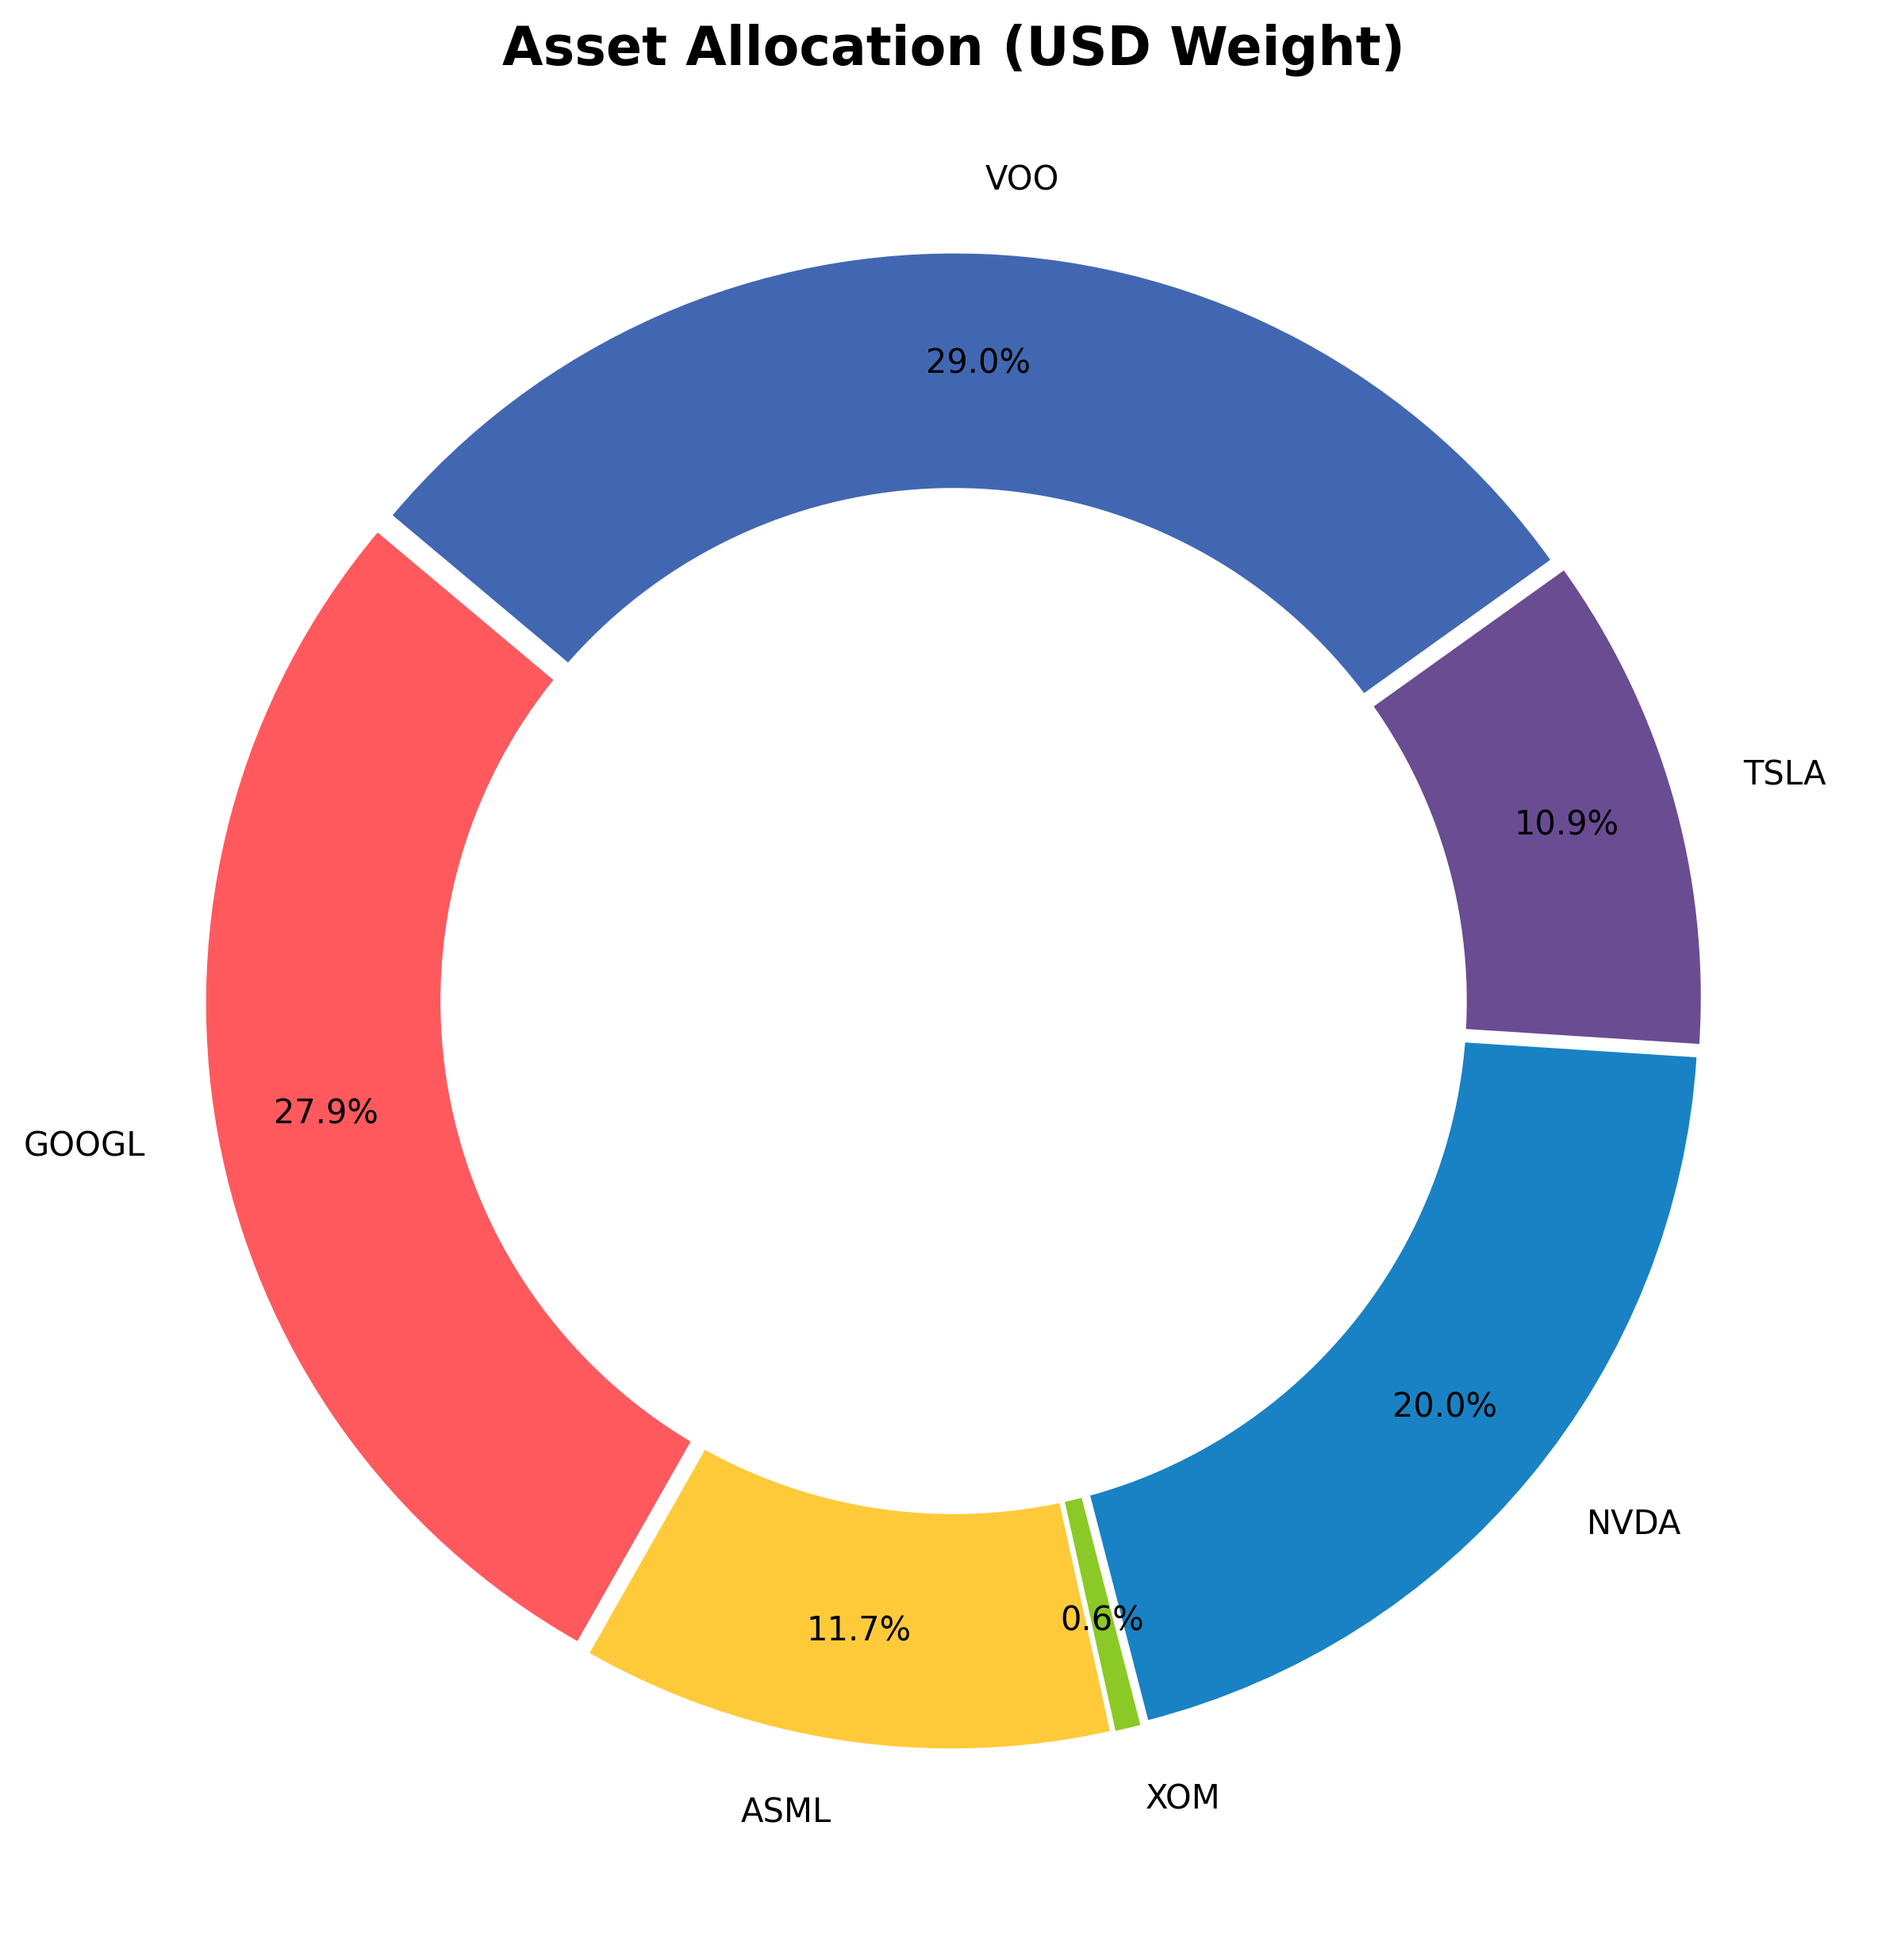
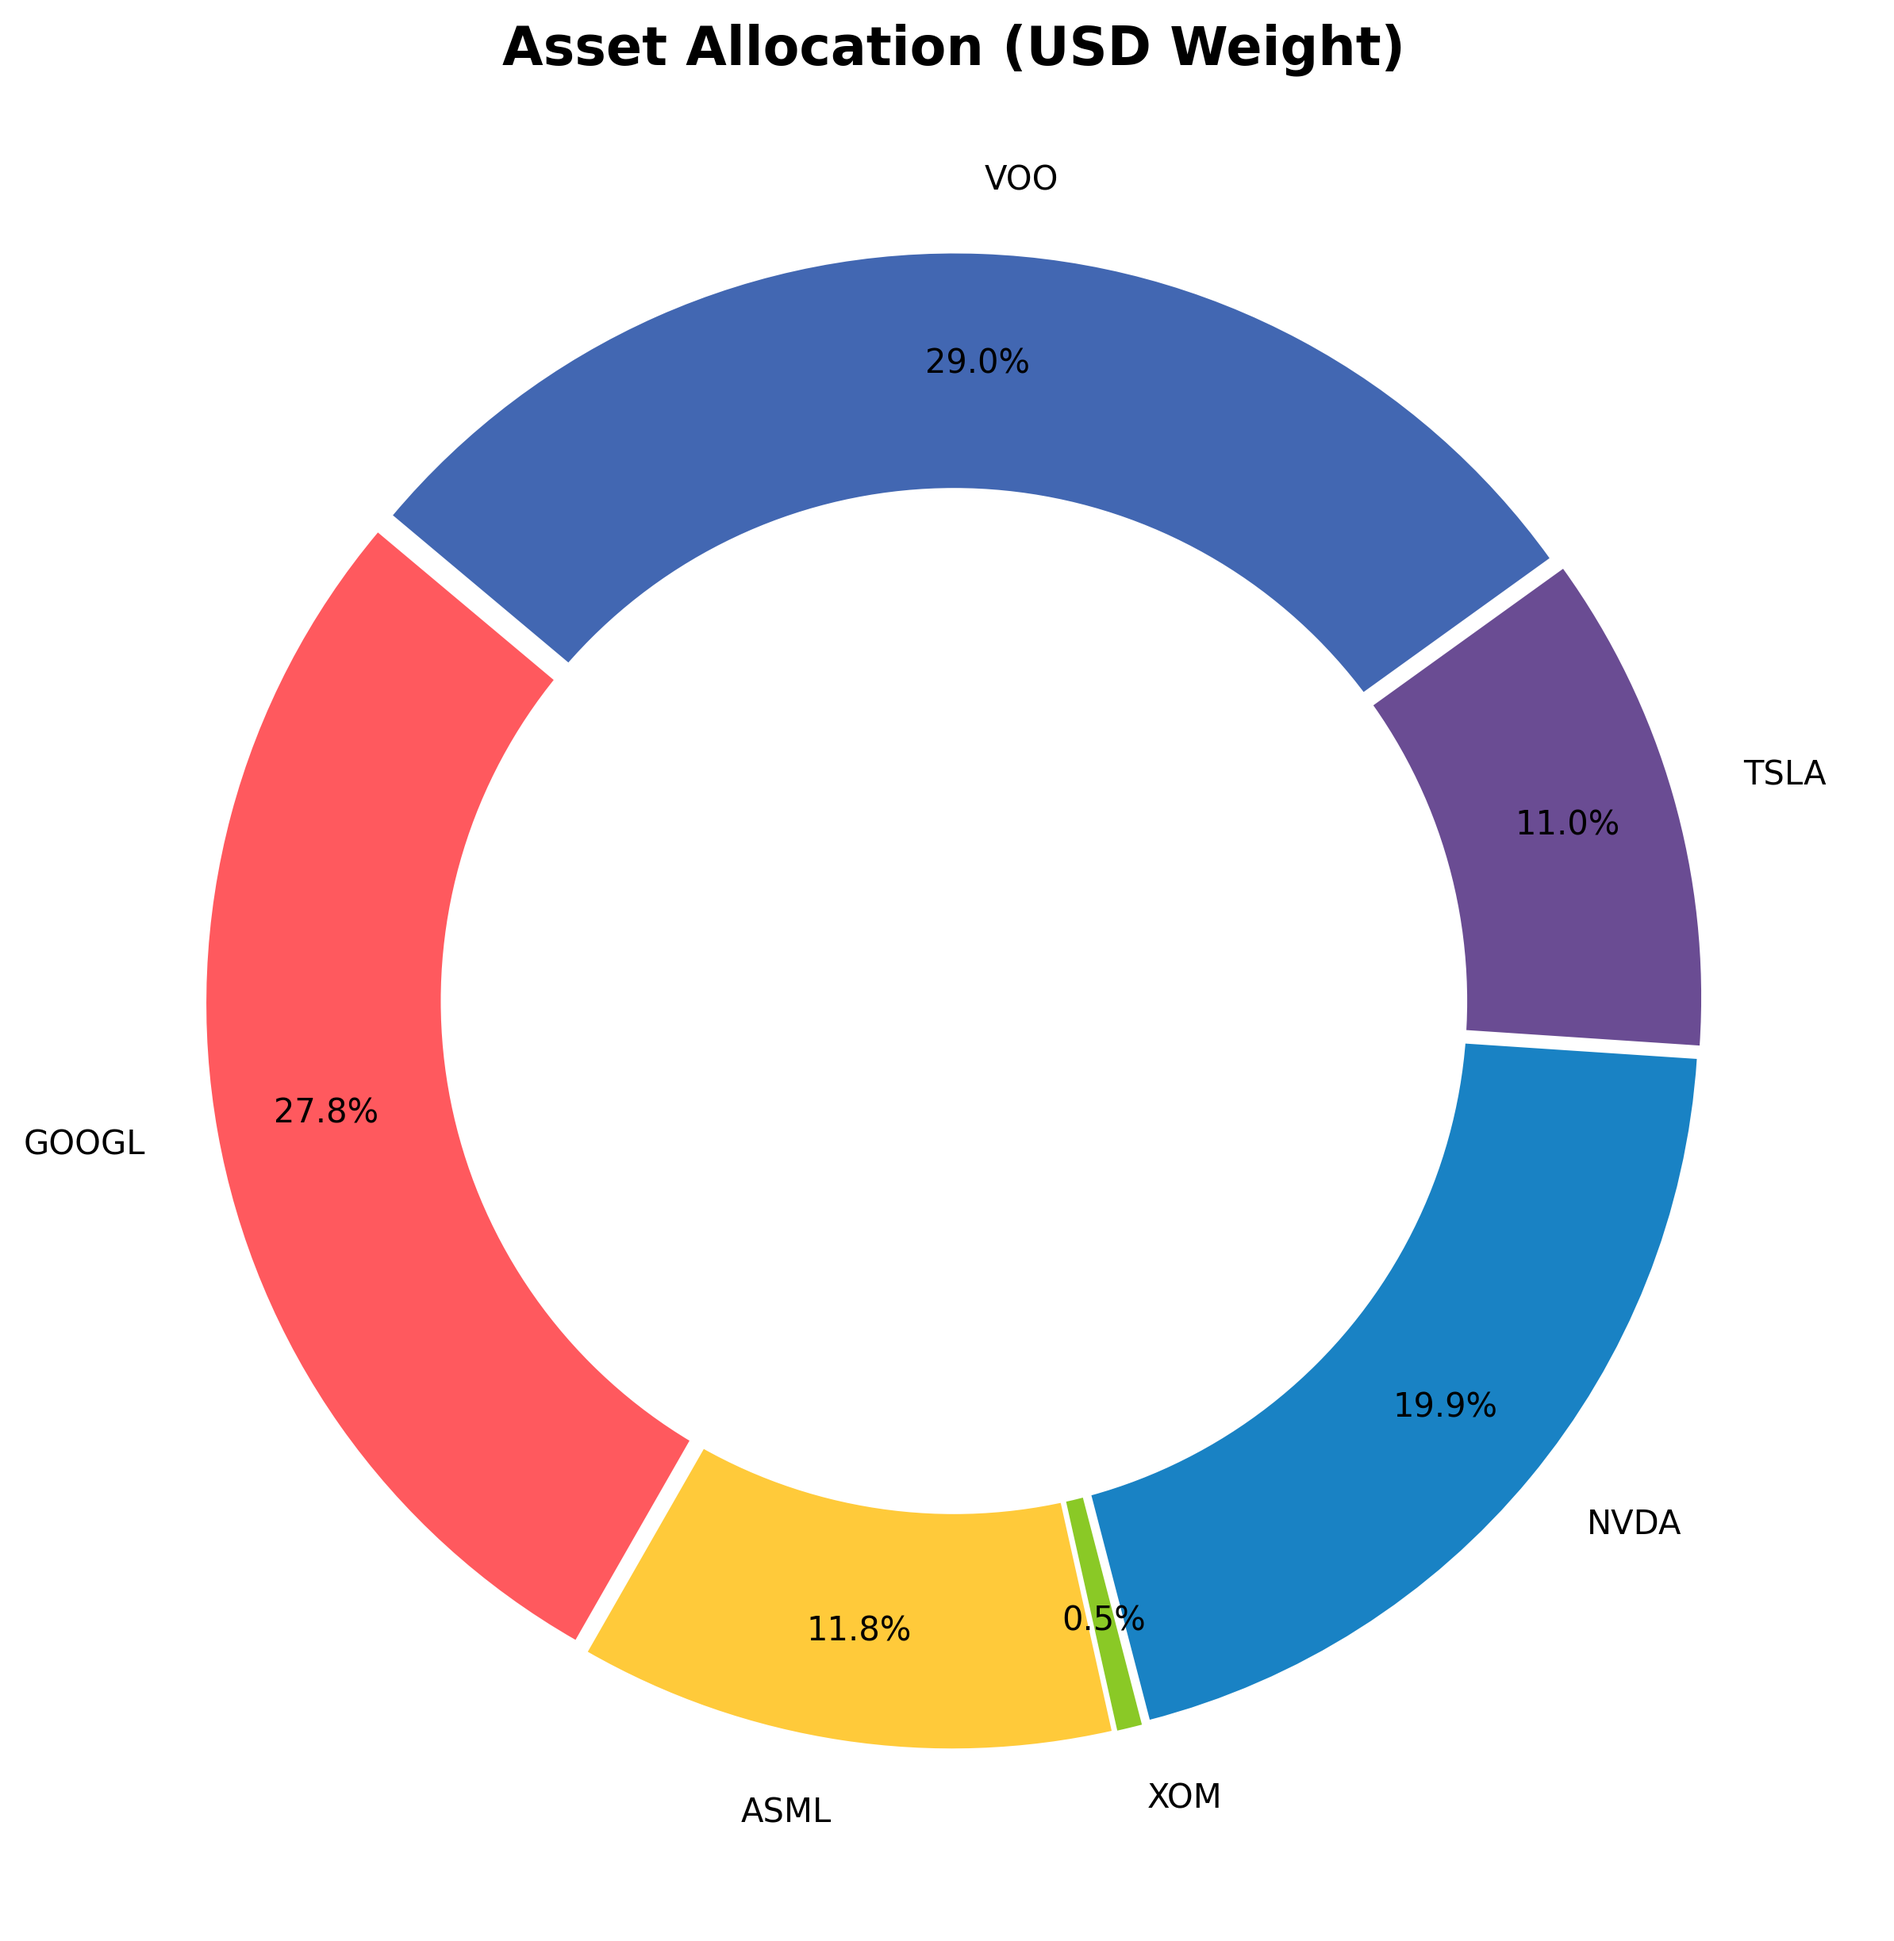
System Run: Analytics & Archive Update [skip ci]

diff --git a/README.md b/README.md
@@ -1,23 +1,23 @@
 # 📊 Portfolio Dashboard | מעקב תיק השקעות
-**Last Update:** 27/07/2026 21:25 | **USD/ILS:** ₪3.054
+**Last Update:** 27/07/2026 23:25 | **USD/ILS:** ₪3.053
 
 ## 💰 Portfolio Summary | סיכום התיק
 | Metric | Value | נתון |
 | :--- | :--- | :--- |
-| **Current Value** | `₪171,375` | **שווי נוכחי** |
-| **Total Invested** | `₪130,933` | **סך השקעה** |
-| **Total Profit/Loss** | `+30.89%` (₪40,442) | **רווח/הפסד כולל** |
-| **Daily Change** | `-1.64%` | **שינוי יומי** |
+| **Current Value** | `₪171,879` | **שווי נוכחי** |
+| **Total Invested** | `₪130,886` | **סך השקעה** |
+| **Total Profit/Loss** | `+31.32%` (₪40,994) | **רווח/הפסד כולל** |
+| **Daily Change** | `-1.31%` | **שינוי יומי** |
 
 ## 📜 Holdings | פירוט החזקות
 | Ticker | Shares | Avg. Cost | Current Price | P&L % | P&L ILS |
 | :--- | :--- | :--- | :--- | :--- | :--- |
-| GOOGL | 48 | $187.99 | $326.11 | 🟢 +73.47% | ₪20,248 |
-| ASML | 4 | $934.51 | $1,639.09 | 🟢 +75.40% | ₪8,607 |
-| XOM | 2 | $126.08 | $155.04 | 🟢 +22.97% | ₪177 |
-| NVDA | 57 | $148.62 | $196.48 | 🟢 +32.20% | ₪8,332 |
-| TSLA | 20 | $436.45 | $305.99 | 🔴 -29.89% | ₪-7,969 |
-| VOO | 24 | $527.38 | $678.09 | 🟢 +28.58% | ₪11,047 |
+| GOOGL | 48 | $187.99 | $326.56 | 🟢 +73.71% | ₪20,307 |
+| ASML | 4 | $934.51 | $1,656.17 | 🟢 +77.22% | ₪8,813 |
+| XOM | 2 | $126.08 | $154.79 | 🟢 +22.77% | ₪175 |
+| NVDA | 57 | $148.62 | $196.52 | 🟢 +32.23% | ₪8,336 |
+| TSLA | 20 | $436.45 | $309.24 | 🔴 -29.15% | ₪-7,767 |
+| VOO | 24 | $527.38 | $679.29 | 🟢 +28.80% | ₪11,131 |
 
 ## 📈 Charts | גרפים
 ![Performance](./data_hub/portfolio_performance.png)
